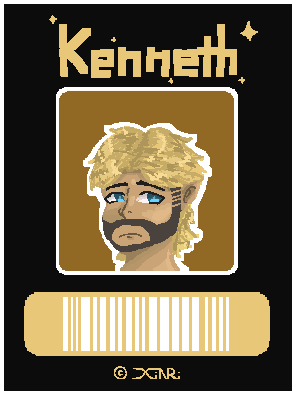
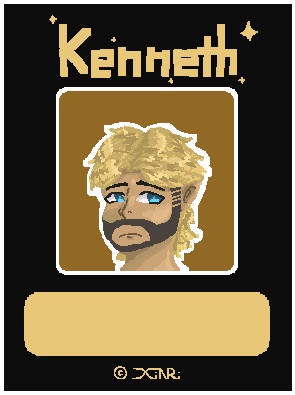
add name showing on player card

Changed region(s): [[0.2136, 0.7291, 0.7932, 0.9114]]

diff --git a/src/main/java/scene/LobbyScene.java b/src/main/java/scene/LobbyScene.java
@@ -40,6 +40,11 @@ public class LobbyScene extends Scene {
     private GameButton riveraCard = new GameButton("", "rivera.png", "rivera.png");
     private GameButton sylviaCard = new GameButton("", "Sylvia.png", "Sylvia.png");
 
+    // private JLabel player1Name = new JLabel();
+    // private JLabel player2Name = new JLabel();
+    // private JLabel player3Name = new JLabel();
+    // private JLabel player4Name = new JLabel();
+
     private int x_arrow = 305;
 
     private double duration = 1;
@@ -138,8 +143,23 @@ public class LobbyScene extends Scene {
 
         ArrayList<String> allPlayersID = new ArrayList<>();
 
+        int count = 1;
         for (Player value : state.allPlayers.values()) {
             allPlayersID.add(value.getNetworkID());
+
+            // display player name
+            JLabel playerNameLabel = new JLabel(value.getName());
+            playerNameLabel.setFont(FontLoader.getFont(40).deriveFont(Font.BOLD));
+            playerNameLabel.setHorizontalAlignment(JLabel.CENTER);
+            this.add(playerNameLabel);
+            this.setComponentZOrder(playerNameLabel, 0);
+            switch (count) {
+                case 1 -> playerNameLabel.setBounds(344-245/2, 668-playerNameLabel.getPreferredSize().height/2, 245, playerNameLabel.getPreferredSize().height);
+                case 2 -> playerNameLabel.setBounds(751-245/2, 668-playerNameLabel.getPreferredSize().height/2, 245, playerNameLabel.getPreferredSize().height);
+                case 3 -> playerNameLabel.setBounds(1158-245/2, 668-playerNameLabel.getPreferredSize().height/2, 245, playerNameLabel.getPreferredSize().height);
+                case 4 -> playerNameLabel.setBounds(1565-245/2, 668-playerNameLabel.getPreferredSize().height/2, 245, playerNameLabel.getPreferredSize().height);
+            }
+            count++;
         }
 
         int index = allPlayersID.indexOf(Player.getLocalPlayerId());
